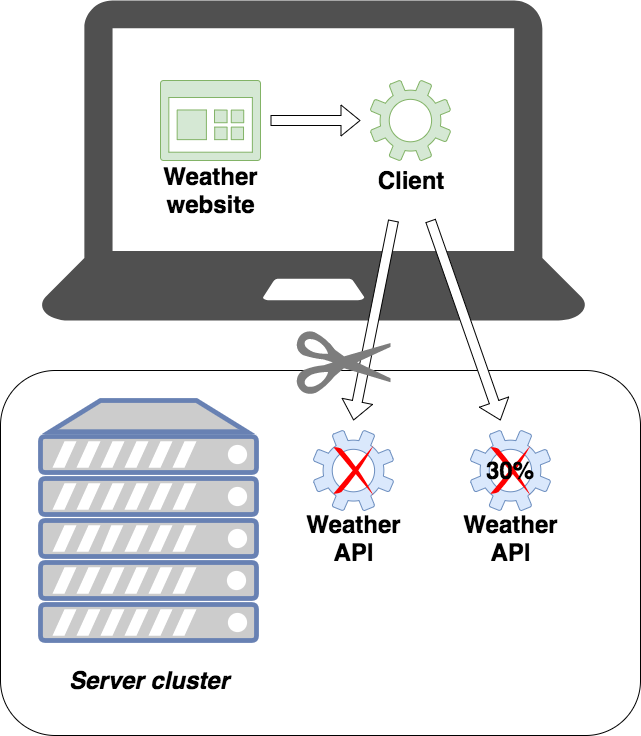
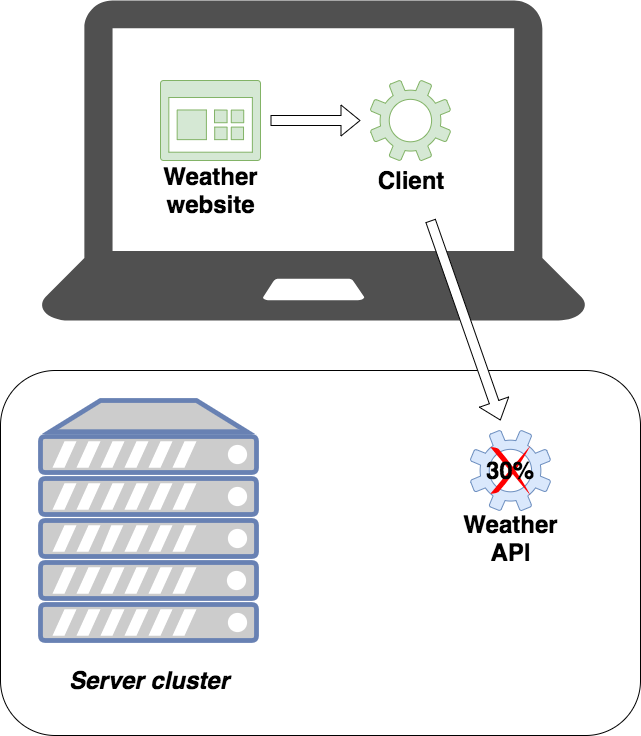
Presentation updated picas

Changed region(s): [[0.468, 0.2812, 0.624, 0.7812]]

diff --git a/presentation/jfall.md b/presentation/jfall.md
@@ -57,7 +57,7 @@ Note:
 
 ### Weather API use case
 
-<img src="images/Setup_initial.png">
+<img src="images/Setup_Initial.png">
 
 * One instance of the client API
 * Two instances of the weather service API
@@ -92,15 +92,12 @@ Finagle is an extensible RPC system for the JVM, used to construct high-concurre
 
 Weather API 2.0:
 
-```java
-@GetMapping("/weather")
-public ResponseEntity<WeatherReport> getReport() {
-    final WeatherReport report = new WeatherReport();
-    report.setCondition(...);
-    report.setTemperature(...);
-    report.setWindForce(...);
-    report.setWindDirection(...);
-    return ResponseEntity.ok(report);
+```json
+{
+    "condition": "...",
+    "temperature": "...",
+    "windForce": "...",
+    "windDirection": "..."
 }
 ```
 
@@ -108,7 +105,13 @@ public ResponseEntity<WeatherReport> getReport() {
 
 ### Load balancing
 
-<img src="images/Setup_Loadbalancing.png" width="500px">
+<img src="images/Setup_Loadbalancing_1.png" width="500px">
+
+^^^
+
+### Load balancing
+
+<img src="images/Setup_Loadbalancing_2.png" width="500px">
 
 ---
 
@@ -122,15 +125,10 @@ public ResponseEntity<WeatherReport> getReport() {
 
 Weather API 1.0:
 
-```java
-@GetMapping("/weather")
-public ResponseEntity<WeatherReport> getReport() {
-    final WeatherReport report = new WeatherReport();
-    report.setCondition(...);
-    report.setTemperature(...);
-    #report.setWindForce(...); //DOES NOT WORK
-    #report.setWindDirection(...); //DOES NOT WORK
-    return ResponseEntity.ok(report);
+```json
+{
+    "condition": "...",
+    "temperature": "..."
 }
 ```
 
